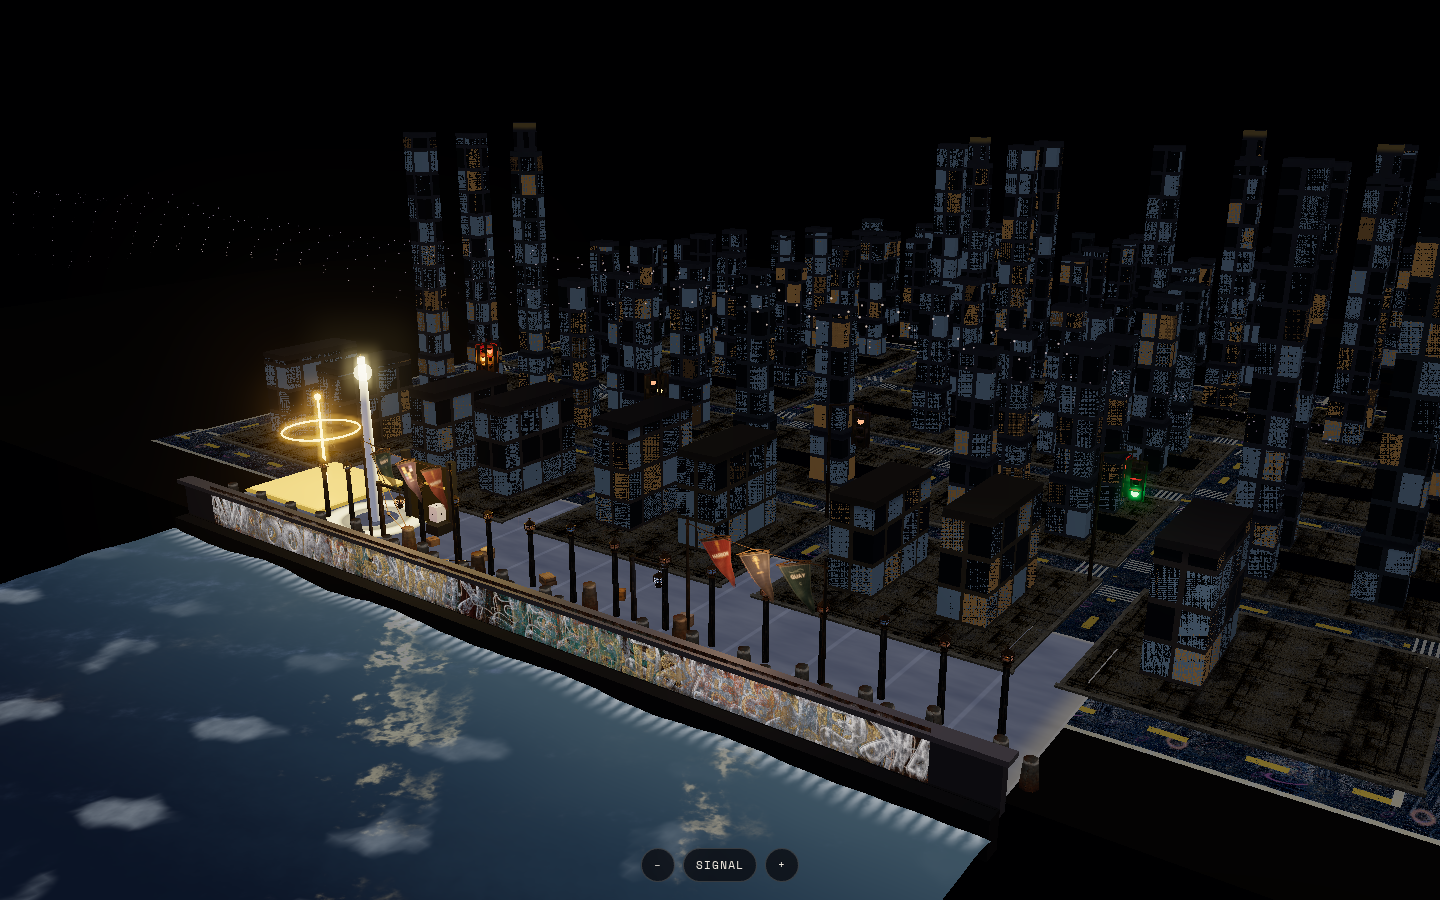
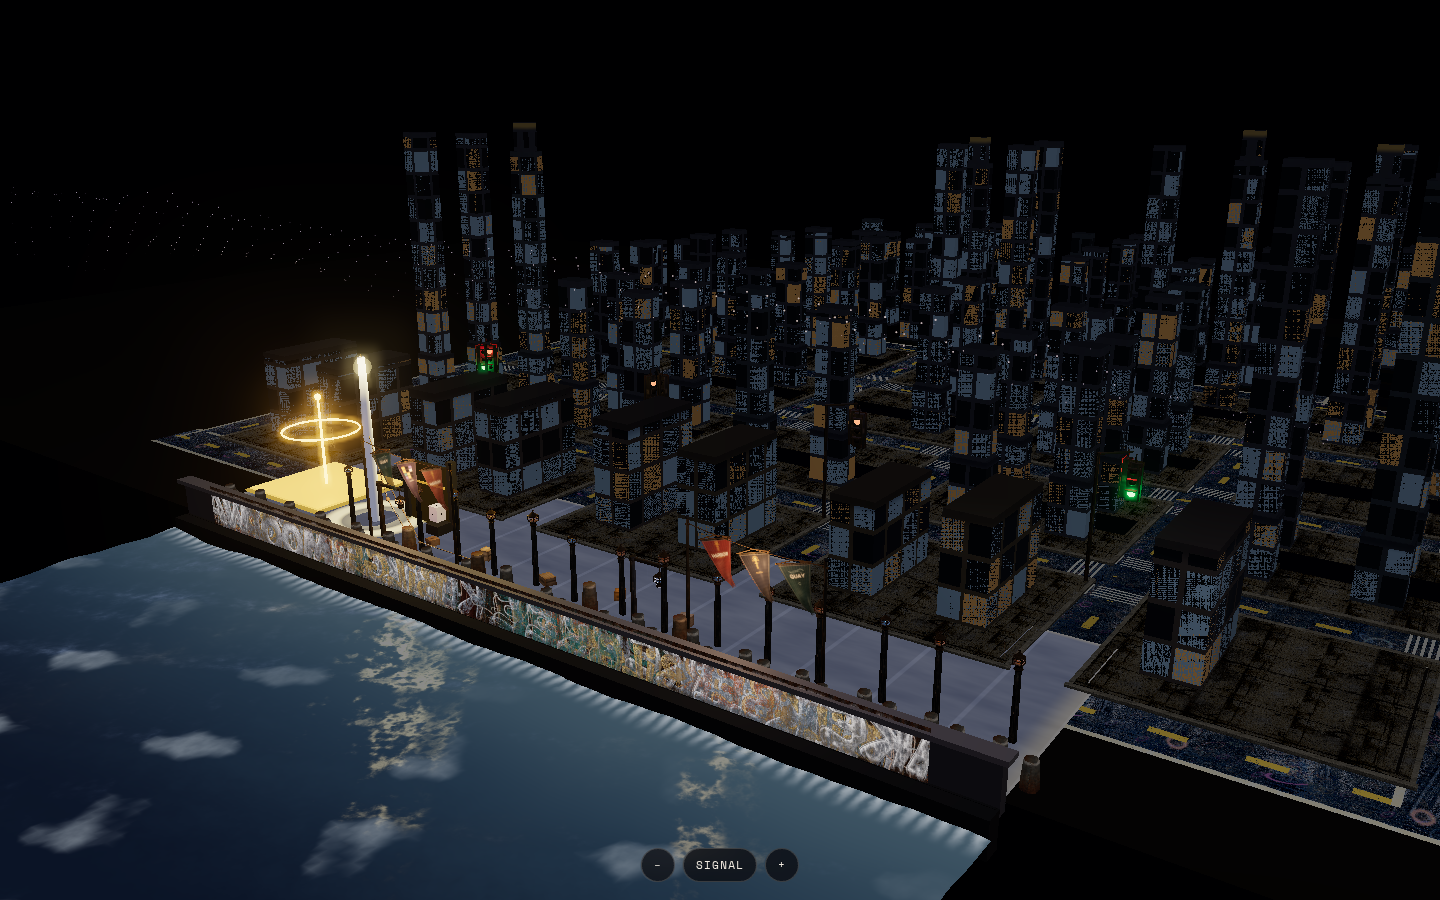
Harbor: slim sidewalks inside the 1.65 street gap
Sidewalks drop from 0.30 to 0.18, so the carriageway opens from 1.05 to 1.29. The quay-edge strip is 0.22. Crosswalk bands still sit on the approaches and now span that wider carriageway.

diff --git a/harbor.html b/harbor.html
@@ -626,12 +626,12 @@ float fbm(vec2 p){
 // arXiv:1801.05741; mysimulator procedural buildings. Negative space = asphalt corridors.
 // Outer module matches main: STREET_W 1.65 is the gap between building faces.
 // Sidewalks sit inside that gap, so the lane you see is STREET_W − 2×SIDEWALK_W.
-// Main left a 0.65 carriageway (sidewalks 0.50). 0.30 sidewalks open the asphalt
-// to 1.05 without moving the blocks. The quay-edge strip stays inside the same gap.
+// Main left a 0.65 carriageway (sidewalks 0.50). Skinny 0.18 walks open the
+// asphalt to 1.29 without moving the blocks. The quay-edge strip stays inside the gap.
 // Atlas sheets are unchanged — these constants only scale meshes.
 const STREET_W = 1.65;
-const SIDEWALK_W = 0.30;
-const QUAY_WALK_W = 0.35;
+const SIDEWALK_W = 0.18;
+const QUAY_WALK_W = 0.22;
 // NYC approach-band depth: ~10–12 ft. Harbor is ~15.79 ft/unit, so ~0.70.
 const CROSSWALK_D = 0.70;
 const CURB_H = 0.09;
@@ -8704,7 +8704,7 @@ function fillTourChecklist() {
     '• [x] Atlas path: skip edgeKill/edgeFade→wallCol (tan side-wall panes after cool127)',
     '• [x] Distance LOD impostor (lodFlat mix to flat back atlas 16–36u)',
     '• [x] Night-street gait: walk 0.50 / sprint 0.88 + head-bob',
-    '• [x] Street widths: carriageway 1.05 · SIDEWALK_W 0.30 · QUAY_WALK_W 0.35 · STREET_W 1.65',
+    '• [x] Street widths: carriageway 1.29 · SIDEWALK_W 0.18 · QUAY_WALK_W 0.22 · STREET_W 1.65',
     '• [x] Collision chest = EYE_H*0.72 (was stale 1.15)',
     '• [x] Face-map default + V walk unchanged',
     '',

diff --git a/noctuary/district-massing.js b/noctuary/district-massing.js
@@ -162,7 +162,7 @@ function blockRect(bx, bz, g) {
 
 function resolveGrammar(options) {
   const streetW = options.streetW ?? 1.65;
-  const sidewalkW = options.sidewalkW ?? 0.30;
+  const sidewalkW = options.sidewalkW ?? 0.18;
   const blockW = options.blockW ?? 5;
   const blockD = options.blockD ?? 4.4;
   const cols = options.cols ?? 5;

diff --git a/noctuary-drills/A04-generate.md b/noctuary-drills/A04-generate.md
@@ -8,30 +8,30 @@ Hand-placed Harbor blocks (`placeBuilding` over the 5×4 lot roll) do not scale.
 ## What was practiced
 
 - **Height field.** Value noise + fbm. A slow octave sets the district ridge; a faster octave roughens lot to lot. The field is shifted by a seed, so two seeds are two districts. Quay row stays low. A ridge through the middle blocks becomes Signal towers. Hinterland stays shorter.
-- **Corridor mask.** Streets use the same cell as Harbor (`BLOCK + STREET`). The outer hard mask is the main street module, `STREET_W` 1.65 — the gap between building faces, not a wider district. Inside that gap the sidewalks are 0.30, so the asphalt carriageway is 1.05 (`STREET_W − 2×SIDEWALK_W`), wider than main’s 0.65 lane. Alleys stay 1.16 inside the block. Every block cuts a north–south alley. Every block inland of the quay also cuts a cross alley. Parcels sit behind a 0.52 inset, and each footprint must keep a 0.14 gap from every street and alley or it is shrunk until it does. Courts (low occupancy noise) stay empty. Dark alley ribbons are drawn with the massing pass, inside the block, so the cut reads even on the existing lot pads. A check recomputes the street bands, asserts an 8 cm clearance, and asserts the outer module is still 1.65 while the carriageway is 1.05.
+- **Corridor mask.** Streets use the same cell as Harbor (`BLOCK + STREET`). The outer hard mask is the main street module, `STREET_W` 1.65 — the gap between building faces, not a wider district. Inside that gap the sidewalks are 0.18, so the asphalt carriageway is 1.29 (`STREET_W − 2×SIDEWALK_W`), wider than main’s 0.65 lane. Alleys stay 1.16 inside the block. Every block cuts a north–south alley. Every block inland of the quay also cuts a cross alley. Parcels sit behind a 0.52 inset, and each footprint must keep a 0.14 gap from every street and alley or it is shrunk until it does. Courts (low occupancy noise) stay empty. Dark alley ribbons are drawn with the massing pass, inside the block, so the cut reads even on the existing lot pads. A check recomputes the street bands, asserts an 8 cm clearance, and asserts the outer module is still 1.65 while the carriageway is 1.29.
 - **Sliced mass.** A stack is a fixed 1.48 podium, then a shaft at 70% of that footprint. A crown is allowed only on the tallest lot of a Signal ridge block (not Quay, not the hinterland belt), one crown per block, and the crown is 72% of the shaft so it cannot spill past it. The hard mask runs again on every slice.
 
 The mass is one `InstancedMesh` (`harbor-district-mass`) with a night façade shader: concrete body, 0.76 m fenestra cells, dark mullions, cool glass, rare warm panes. Extension streets past the hand grid are plain night asphalt in this module. They do not bind `uStreetAtlas`.
 
 ## Wider asphalt, same block spacing
 
-The street module stays the main gap: `STREET_W` 1.65. Building faces do not move. Sidewalks sit inside that gap, so the lane you see is `STREET_W − 2×SIDEWALK_W`. Main used 0.50 sidewalks and left a 0.65 carriageway. Sidewalks are now 0.30, which opens the asphalt to 1.05. That is still much wider than 0.65, and the walk is wide enough to read. Alleys stay the narrow cut inside the block.
+The street module stays the main gap: `STREET_W` 1.65. Building faces do not move. Sidewalks sit inside that gap, so the lane you see is `STREET_W − 2×SIDEWALK_W`. Main used 0.50 sidewalks and left a 0.65 carriageway. Sidewalks are now 0.18, which opens the asphalt to 1.29. The walks are a skinny ribbon beside that lane. Alleys stay the narrow cut inside the block.
 
 | Lane | Main | Now |
 |---|---|---|
 | `STREET_W` (outer gap, hard mask) | 1.65 | 1.65 |
-| `SIDEWALK_W` | 0.50 | 0.30 |
-| Carriageway (`STREET_W − 2×SIDEWALK_W`) | 0.65 | 1.05 |
-| Quay-edge walk (north face of the first row) | 0.50 | 0.35 |
+| `SIDEWALK_W` | 0.50 | 0.18 |
+| Carriageway (`STREET_W − 2×SIDEWALK_W`) | 0.65 | 1.29 |
+| Quay-edge walk (north face of the first row) | 0.50 | 0.22 |
 | Alley | 1.16 | 1.16 |
 
-The quay-edge walk is a 0.35 strip on the water side of the first row. It stays inside the 1.65 gap, so it does not push the promenade or the buildings. Hand-placed asphalt, sidewalks, curbs, and crosswalks use these constants, and the generator mask uses the same outer `STREET_W` and sidewalk split. Atlas cell sampling is unchanged.
+The quay-edge walk is a 0.22 strip on the water side of the first row. It stays inside the 1.65 gap, so it does not push the promenade or the buildings. Hand-placed asphalt, sidewalks, curbs, and crosswalks use these constants, and the generator mask uses the same outer `STREET_W` and sidewalk split. Atlas cell sampling is unchanged.
 
 ## Crosswalks
 
 Marked crossings follow the NYC approach-band rule (Street Design Manual pavement markings, MUTCD 3B, NYSDOT HDM §18.7.7–18.7.8). They sit at grid intersections only, not in the middle of the box and not midblock.
 
-Each leg that has a sidewalk on both sides of the street gets one band. The band is the continuation of that sidewalk across the carriageway: its inner edge lines up with the sidewalk’s street face, and the band lies just outside the intersection. The span is the carriageway, `STREET_W − 2×SIDEWALK_W` (1.05), curb to curb. The depth along the sidewalk is 0.70 (~11 ft at 15.79 ft/unit). Continental bars run parallel to traffic on that approach. A leg with no far sidewalk — the water edge of the quay street, and the outside of the district — is left unmarked. The paint is visual only.
+Each leg that has a sidewalk on both sides of the street gets one band. The band is the continuation of that sidewalk across the carriageway: its inner edge lines up with the sidewalk’s street face, and the band lies just outside the intersection. The span is the carriageway, `STREET_W − 2×SIDEWALK_W` (1.29), curb to curb. The depth along the sidewalk is 0.70 (~11 ft at 15.79 ft/unit). Continental bars run parallel to traffic on that approach. A leg with no far sidewalk — the water edge of the quay street, and the outside of the district — is left unmarked. The paint is visual only.
 
 ## Toggle
 
@@ -55,11 +55,11 @@ node noctuary/district-massing.check.mjs
 
 ## Harbor view
 
-Same camera and the same building spacing. Left is main’s split (sidewalk 0.50, carriageway 0.65). Right keeps that outer gap: sidewalk 0.30, carriageway 1.05, quay-edge strip 0.35.
+Same camera and the same building spacing. Left is the 0.30 sidewalk (carriageway 1.05). Right slims the walk to 0.18 and opens the asphalt to 1.29. The quay-edge strip is 0.22.
 
 ![Harbor streets, same spacing, wider asphalt](a04-harbor-streets-before-after.png)
 
-An interior intersection. Left is the old pad in the middle of the box. Right is four approach bands, each spanning the carriageway, with bars parallel to traffic:
+An interior intersection after the slim walks. Each band still sits on an approach, spans the 1.29 carriageway, and keeps continental bars parallel to traffic:
 
 ![Harbor intersection crosswalks, before and after](a04-harbor-crosswalk-approaches.png)
 
